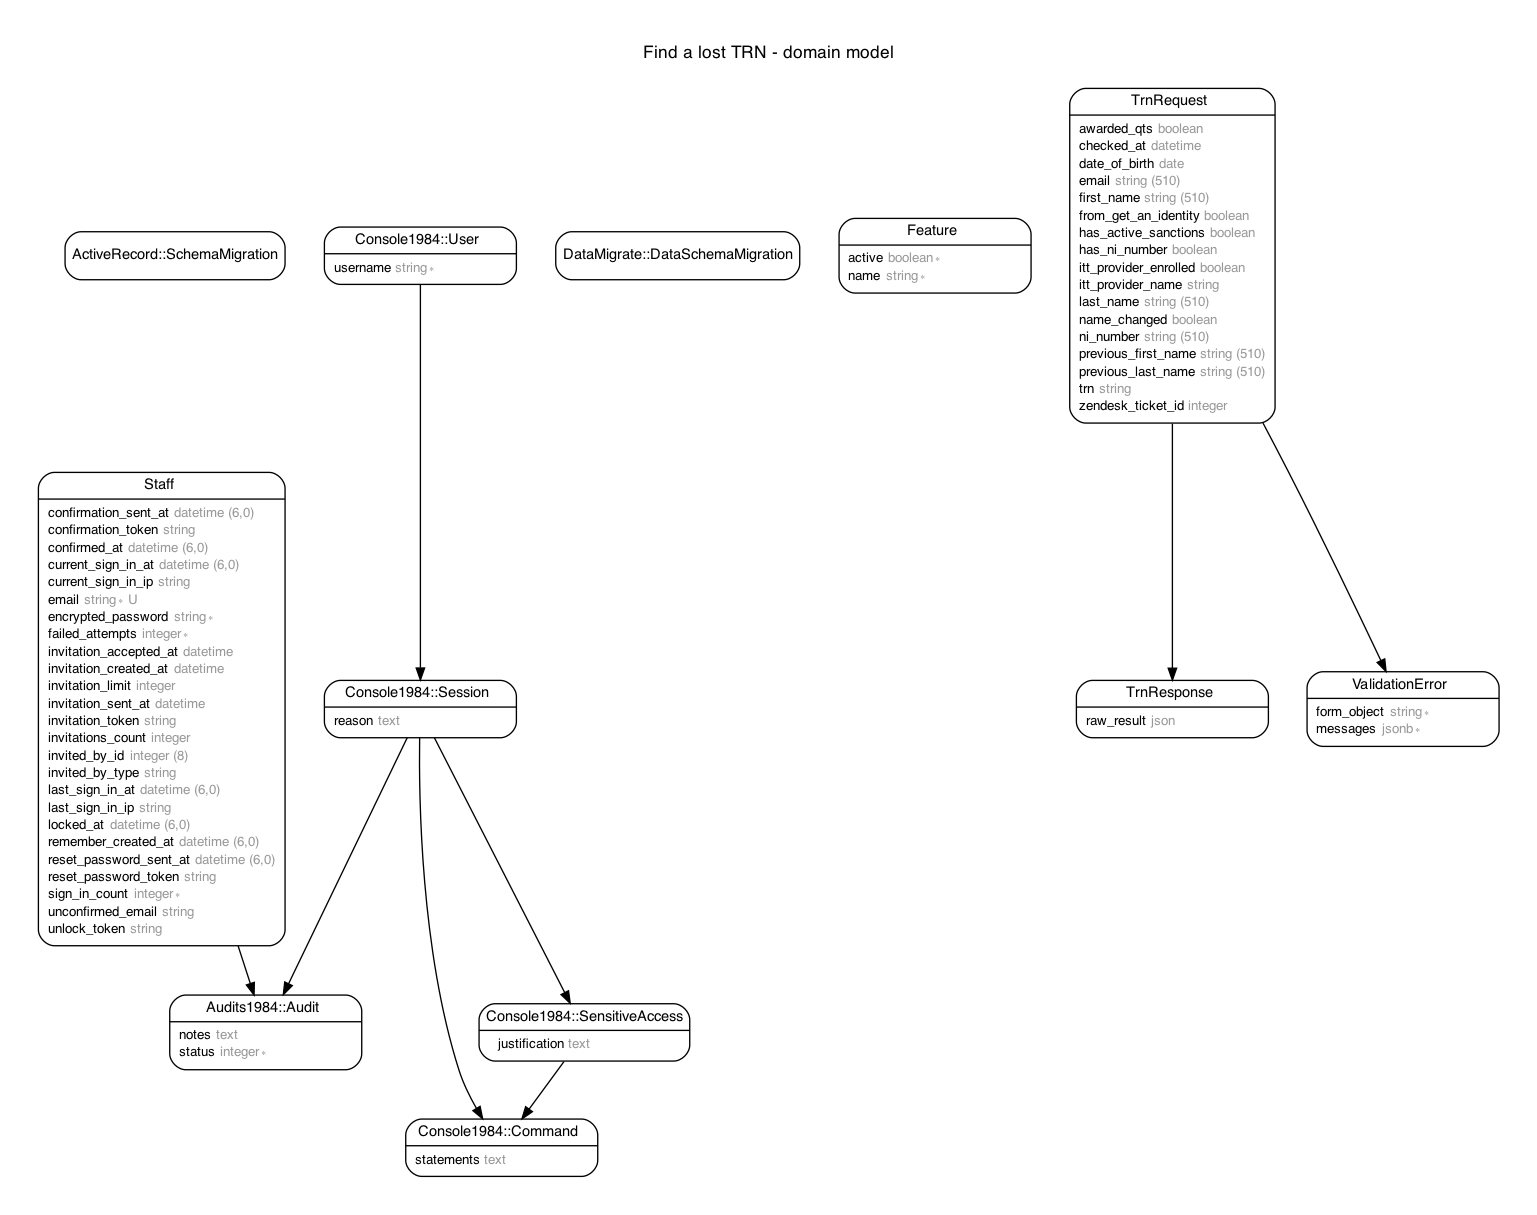
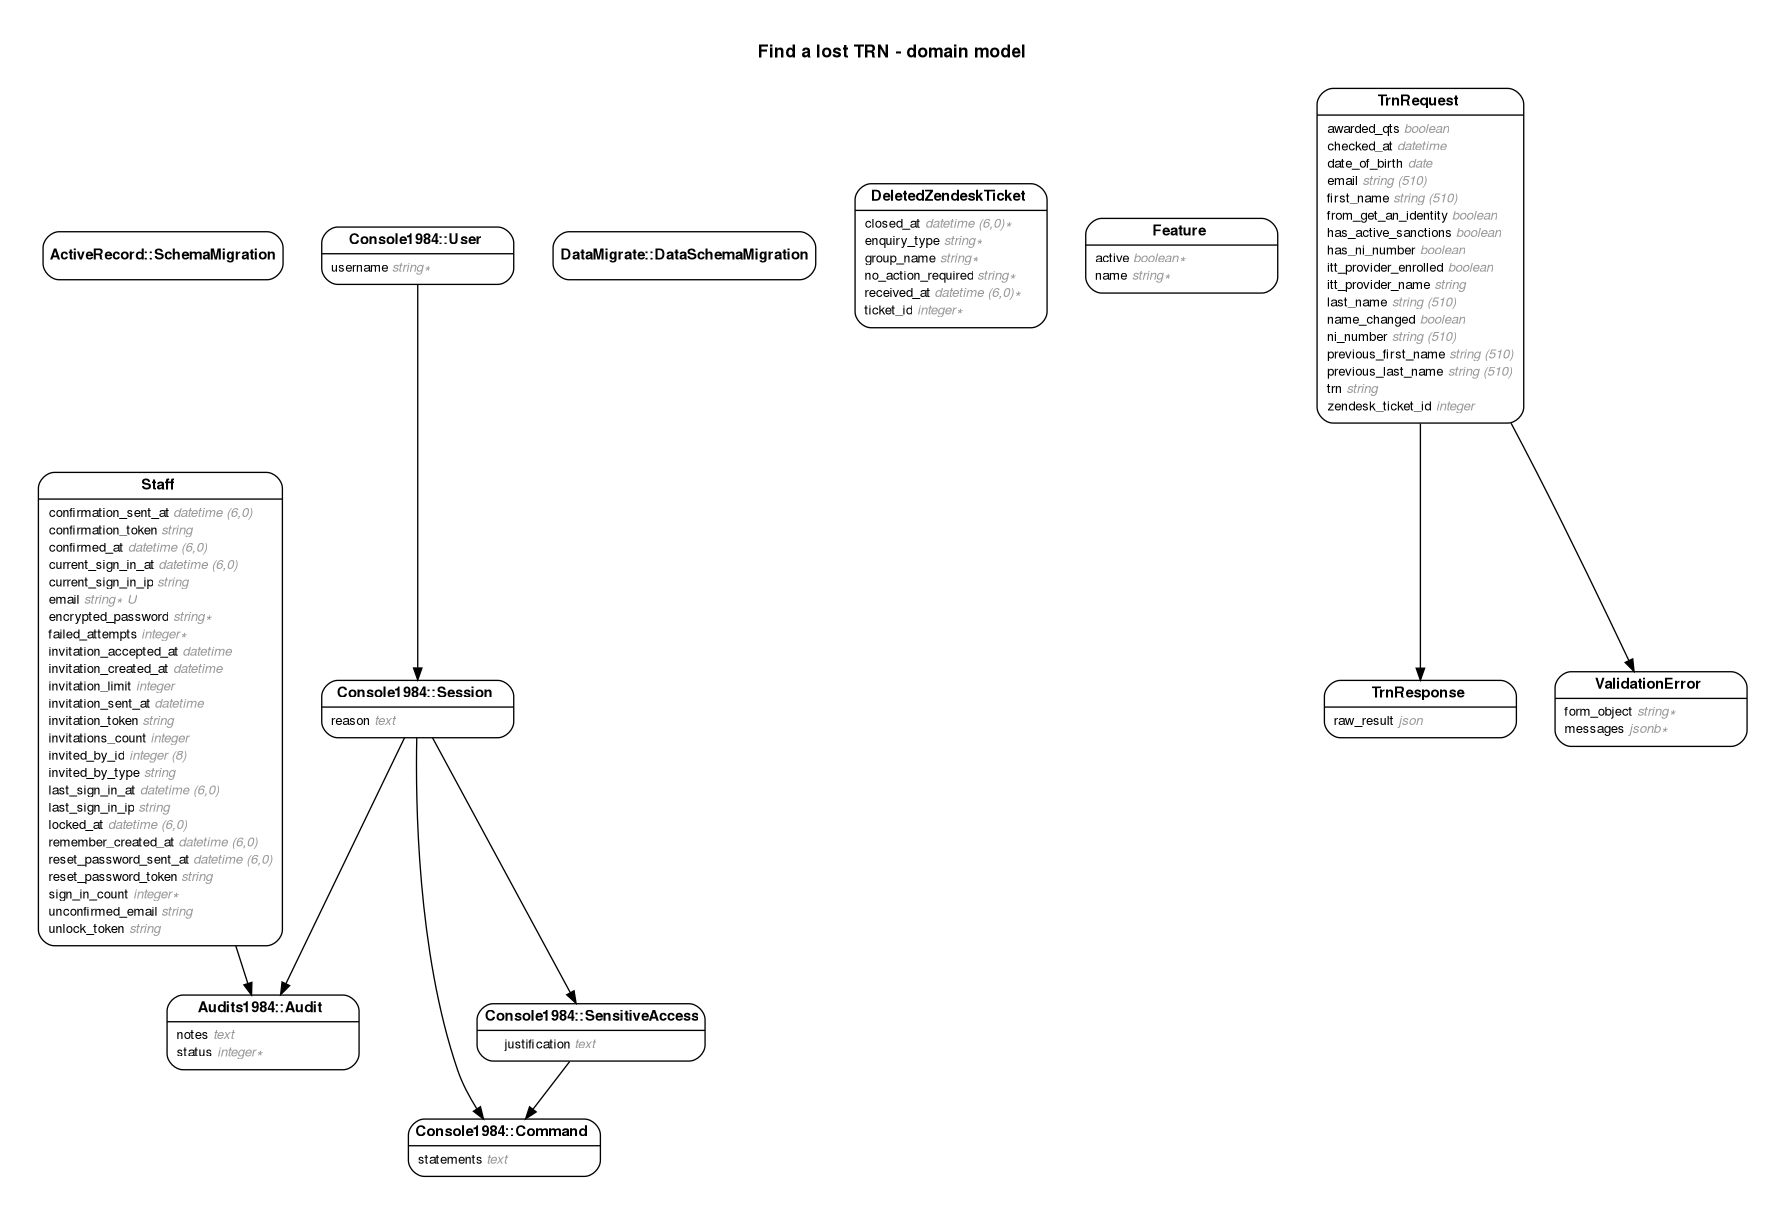
Add DeletedZendeskTicket model
This will be used to track any Zendesk tickets that we delete, and
retain some useful metadata, but no PII.

diff --git a/db/schema.rb b/db/schema.rb
@@ -10,7 +10,7 @@
 #
 # It's strongly recommended that you check this file into your version control system.
 
-ActiveRecord::Schema[7.0].define(version: 2022_08_17_105900) do
+ActiveRecord::Schema[7.0].define(version: 2022_08_17_143001) do
   # These are extensions that must be enabled in order to support this database
   enable_extension "plpgsql"
 
@@ -60,6 +60,17 @@ ActiveRecord::Schema[7.0].define(version: 2022_08_17_105900) do
   end
 
   create_table "data_migrations", primary_key: "version", id: :string, force: :cascade do |t|
+  end
+
+  create_table "deleted_zendesk_tickets", force: :cascade do |t|
+    t.datetime "received_at", null: false
+    t.datetime "closed_at", null: false
+    t.integer "ticket_id", null: false
+    t.string "enquiry_type", null: false
+    t.string "no_action_required", null: false
+    t.string "group_name", null: false
+    t.datetime "created_at", null: false
+    t.datetime "updated_at", null: false
   end
 
   create_table "features", force: :cascade do |t|

diff --git a/app/models/deleted_zendesk_ticket.rb b/app/models/deleted_zendesk_ticket.rb
@@ -1,0 +1,16 @@
+# == Schema Information
+#
+# Table name: deleted_zendesk_tickets
+#
+#  id                 :bigint           not null, primary key
+#  closed_at          :datetime         not null
+#  enquiry_type       :string           not null
+#  group_name         :string           not null
+#  no_action_required :string           not null
+#  received_at        :datetime         not null
+#  created_at         :datetime         not null
+#  updated_at         :datetime         not null
+#  ticket_id          :integer          not null
+#
+class DeletedZendeskTicket < ApplicationRecord
+end

diff --git a/db/migrate/20220817143001_create_deleted_zendesk_tickets.rb b/db/migrate/20220817143001_create_deleted_zendesk_tickets.rb
@@ -1,0 +1,14 @@
+class CreateDeletedZendeskTickets < ActiveRecord::Migration[7.0]
+  def change
+    create_table :deleted_zendesk_tickets do |t|
+      t.datetime :received_at, null: false
+      t.datetime :closed_at, null: false
+      t.integer :ticket_id, null: false
+      t.string :enquiry_type, null: false
+      t.string :no_action_required, null: false
+      t.string :group_name, null: false
+
+      t.timestamps
+    end
+  end
+end
